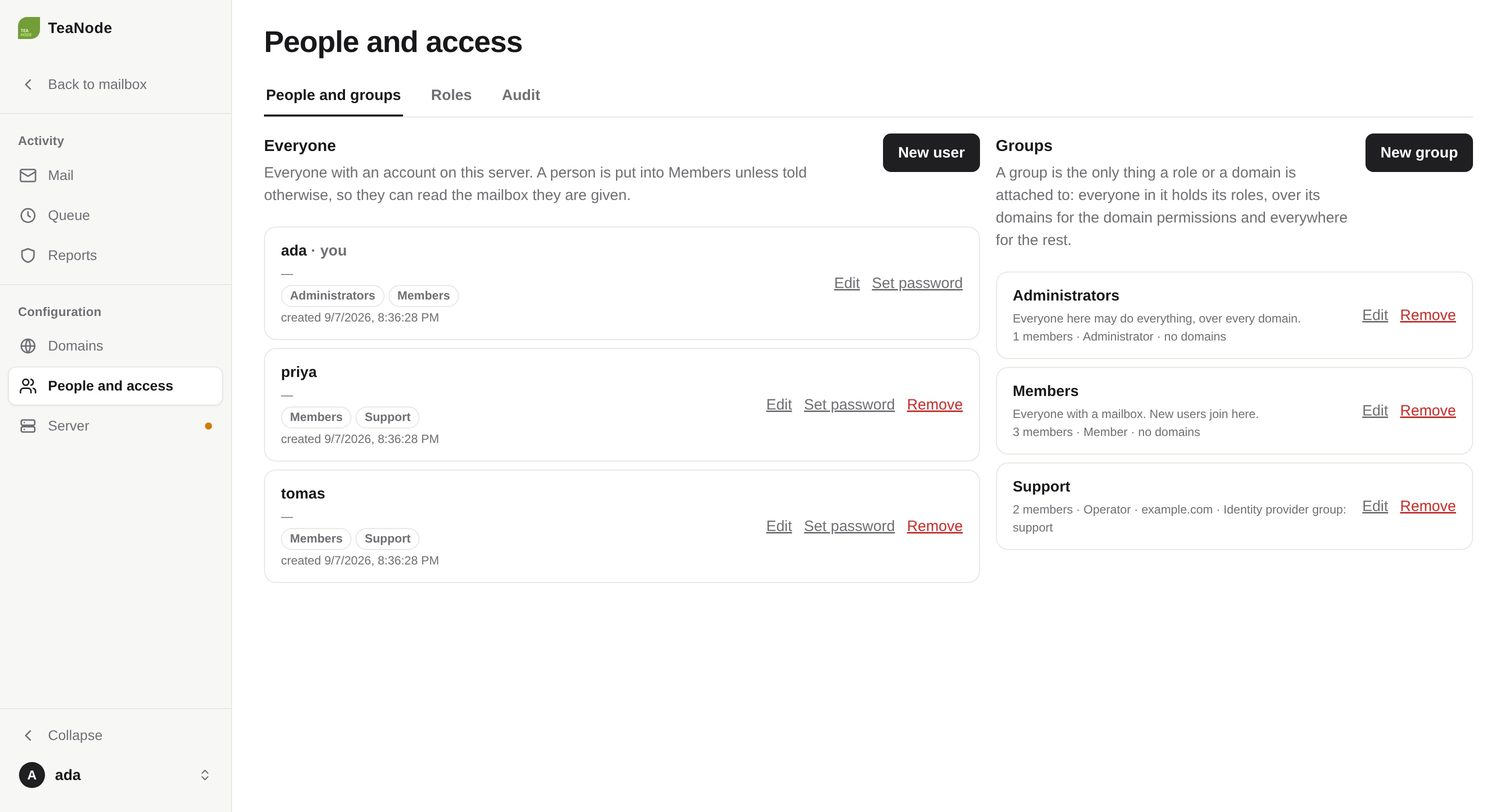
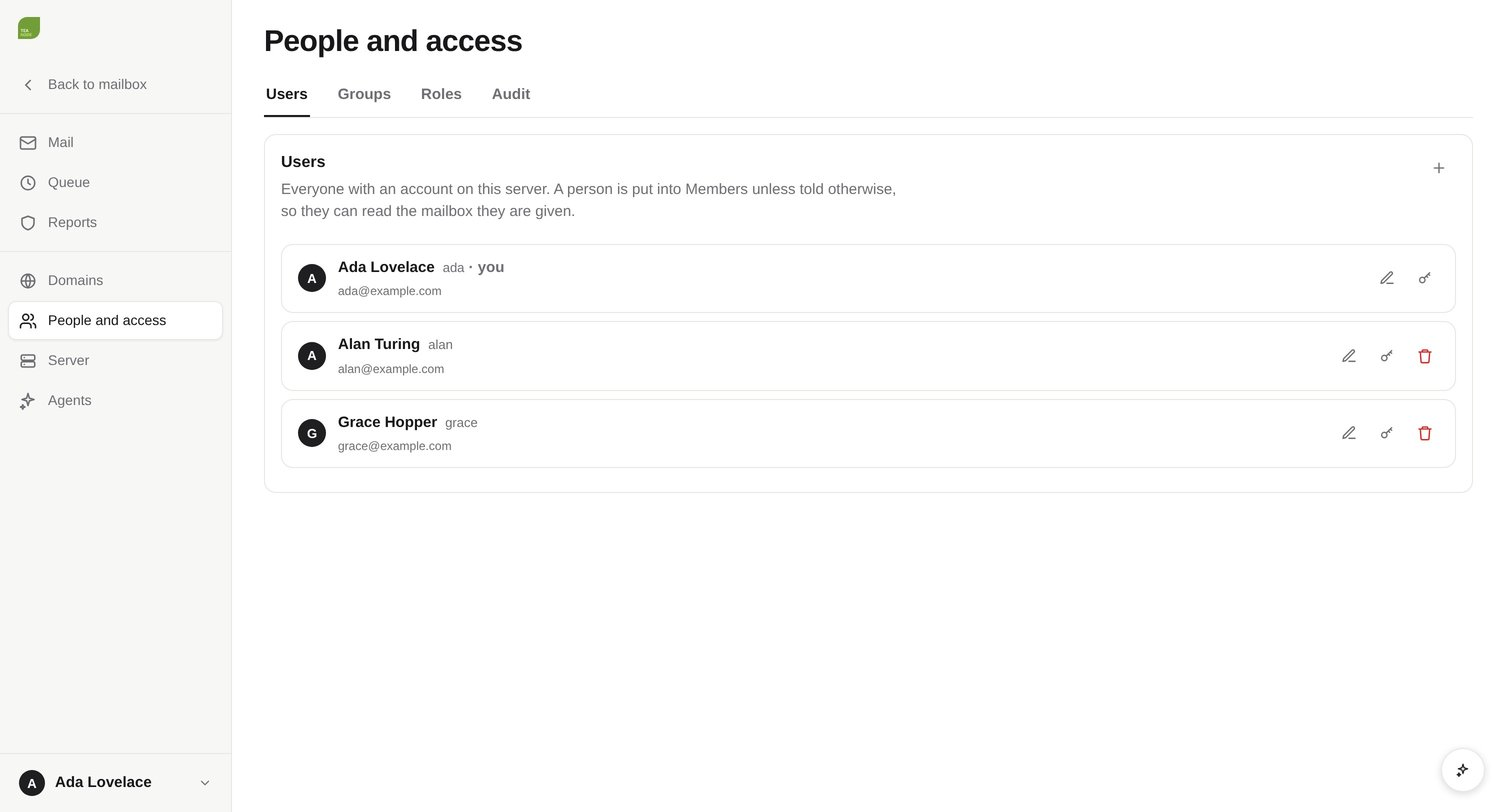
docs(readme): show the agent, memory, calendar and finance, with new screenshots
The README described the mail server alone. It now says what the agent,
its memory, the calendar and contacts, finance and the Model Context
Protocol endpoint do, and shows twelve pages of the dashboard at v0.98
instead of two, all of invented people and mail.

diff --git a/README.md b/README.md
@@ -21,6 +21,15 @@ spam.
 
 A mailbox is read in the dashboard or in any mail program over IMAP. An address
 that should not have a mailbox forwards instead, and one domain can do both.
+Each account also has a calendar, a reminders list and an address book, which
+a phone keeps in step over CalDAV and CardDAV.
+
+Each person can turn on an agent of their own, pointed at a model the operator
+chose (OpenAI, Anthropic, Gemini, an Ollama or vLLM on the same machine, or a
+ChatGPT plan). It sorts the mail that arrives, drafts replies, answers
+questions with exactly that person's permissions, keeps a memory of what it
+learns, and can read the banks and cards they link. It is off until somebody
+turns it on.
 
 ```mermaid
 flowchart LR
@@ -46,12 +55,58 @@ built in rather than bolted on.
 
 The dashboard is compiled into the binary; there is nothing else to deploy. It
 opens on your mailbox, and the pages that run the server are a mode behind
-**Manage**, which shows only what your permissions allow.
+**Manage**, which shows only what your permissions allow. Every picture here
+is of invented people and invented mail.
 
 ![A mailbox, with a message open](docs/images/mailbox.jpg)
 
 Folders nest, search covers one folder or the whole mailbox, and a message is
 shown the way a mail program would show it.
+
+![The Priority view, with the agent's chips on each row](docs/images/priority.jpg)
+
+With the agent on, each message gets a category, a priority and a note of
+whether somebody is waiting on you, and Priority lists what needs you first.
+
+![A week of the calendar](docs/images/calendar.jpg)
+
+The calendar, with the reminders list a tab away. An invitation that arrives
+as mail becomes an event you can answer.
+
+![The address book](docs/images/contacts.jpg)
+
+The address book holds the people you keep, not everyone who ever wrote.
+
+![The chat drawer open beside the mailbox](docs/images/drawer.jpg)
+
+The agent is a drawer on every page. Asked what needs you today, it searches
+your mail and answers from what it found; anything it cannot undo, and
+anything that leaves the server, waits for you to approve it.
+
+![The agent's own settings page](docs/images/agent.jpg)
+
+Its own page says what to call it, how it should write, which mailboxes it may
+reach, and what it has spent today.
+
+![One page of the agent's memory](docs/images/knowledge.jpg)
+
+What it knows is a graph of pages. Each fact is numbered and carries the words
+it came from, and every change records who made it and what was there before.
+
+![The same memory as a graph](docs/images/graph.jpg)
+
+The same pages as a graph, joined by links that say how they relate.
+
+![Income and spending across twelve months](docs/images/finance-spending.jpg)
+
+Link a bank, a card or a brokerage through Plaid or SimpleFIN, and the Finance
+page shows where the money went, against budgets that say where the month is
+heading.
+
+![Net worth and assets](docs/images/finance-net-worth.jpg)
+
+Net worth counts the linked accounts, what you enter yourself, and estimates
+the agent makes where you allowed it.
 
 Behind **Manage** is the server: every message it has handled with what it
 decided about each one, the queue, DMARC reports, the domains, and who may do
@@ -62,6 +117,11 @@ what.
 A group is the only thing a role or a domain is attached to. Tie one to a
 domain and its permissions reach that far and no further; give it the name of a
 group in your identity provider and its membership follows the directory.
+
+![A domain's DNS records, each one checked](docs/images/dns.jpg)
+
+Each domain lists the DNS records it needs and checks every one, so you can
+see what is left rather than guessing.
 
 ## Getting started
 
@@ -147,6 +207,37 @@ mail keeps an ARC chain so it still passes at the far end.
 **Forwards flexibly.** Aliases match the address with a regular expression and
 send the message to an address, an HTTP endpoint, or another mail server. An
 empty pattern is a catch-all, which receives whatever nothing else matched.
+
+**Calendar, reminders and contacts.** A calendar and a reminders list over
+CalDAV, and an address book over CardDAV, so a phone keeps them in step. An
+invitation that arrives by mail becomes an event you can accept or decline.
+The notes a phone keeps in the mail account show in the dashboard too.
+
+**A personal agent, if you want one.** Off until the operator configures a
+model and each person turns their own on, and blind to every mailbox until it
+is granted one. It sorts what arrives, summarizes long conversations, drafts
+replies in your voice, and can answer on your behalf under a policy you write.
+It answers questions in a drawer on every page or with `teanode agent ask`,
+through the same operations the dashboard uses, with your permissions. It can
+reach your calendar and contacts, your own computer and browser tab while you
+are present, the web, and servers you connect over the Model Context
+Protocol. It tells you, unasked, when mail shows something that cannot wait,
+within quiet hours and a daily limit you set. Operators cap what it may spend.
+
+**A memory that learns you.** The agent keeps what it learns as a graph of
+pages, each fact numbered and tied to the words it came from. It writes pages
+without being asked, reads the places you point it at (a code checkout, a chat
+archive, your notes, a wiki), and works over the graph while you are away.
+Nothing is deleted, and every change can be put back.
+
+**Finance.** Banks, cards, brokerages and lenders linked through Plaid or
+SimpleFIN, kept in your own database: transactions in your own categories,
+budgets that project the month, savings targets, and net worth over time. The
+agent reads the same rows, so you can ask it how the month is going.
+
+**Model Context Protocol, both ways.** An editor or a coding tool can use your
+agent's tools and ask it questions; approve it in your browser and there is no
+token to copy.
 
 **Relays your outbound mail.** Per-device SMTP credentials on the submission
 port, each optionally restricted to one sender address.
